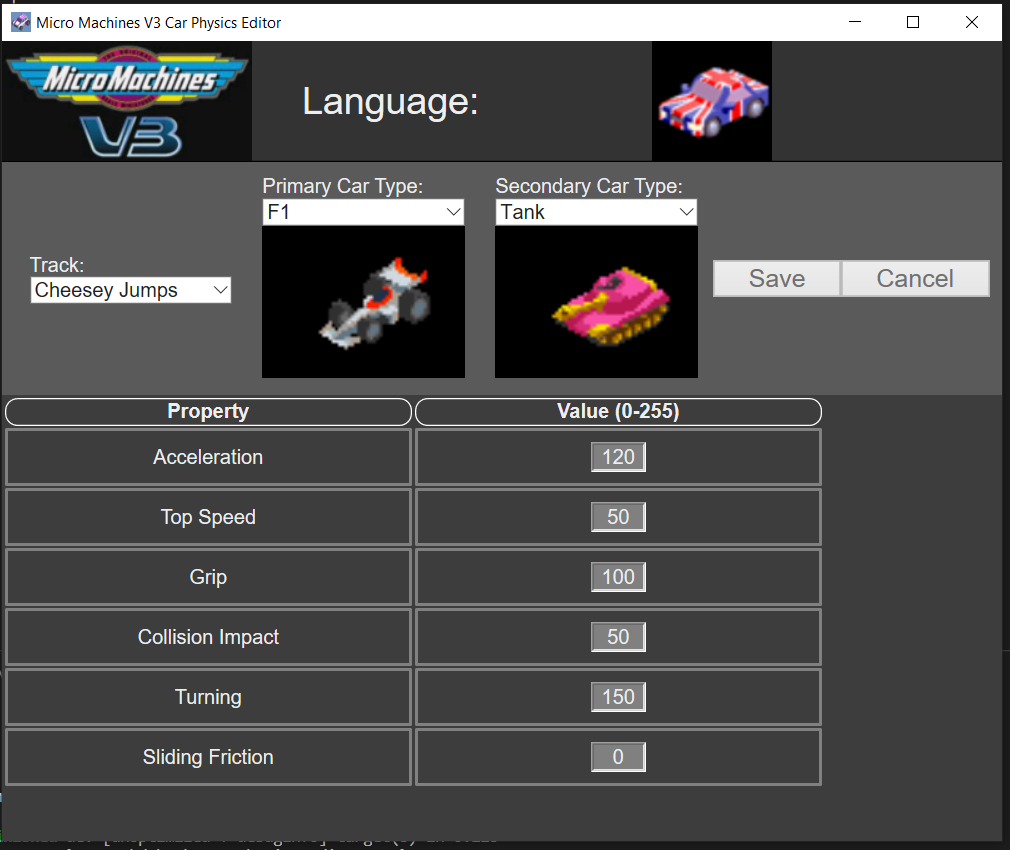
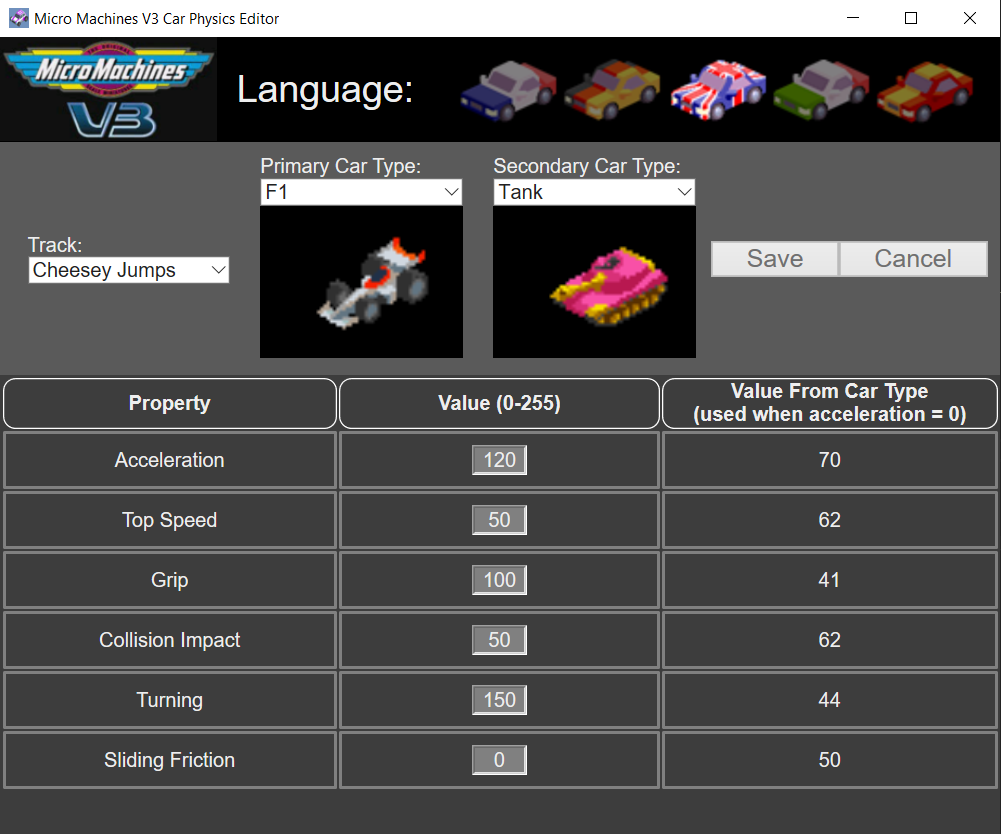
Add other languages

diff --git a/src/ui/index.html b/src/ui/index.html
@@ -11,11 +11,11 @@
         <div id="language-text">
           <span id="language-text-content">Language:</span>
         </div>
-        <img id="french" class="language-image-inactive" src="{french}"/>
-        <img id="german" class="language-image-inactive" src="{german}"/>
-        <img id="english" class="language-image-active" src="{english}"/>
-        <img id="italian" class="language-image-inactive" src="{italian}"/>
-        <img id="spanish" class="language-image-inactive" src="{spanish}"/>
+        <img id="french" class="language-image-inactive language-button" onclick="Action.set_language('French')" src="{french}"/>
+        <img id="german" class="language-image-inactive language-button" onclick="Action.set_language('German')" src="{german}"/>
+        <img id="english" class="language-image-active language-button" onclick="Action.set_language('English')" src="{english}"/>
+        <img id="italian" class="language-image-inactive language-button" onclick="Action.set_language('Italian')" src="{italian}"/>
+        <img id="spanish" class="language-image-inactive language-button" onclick="Action.set_language('Spanish')" src="{spanish}"/>
       </div>
     </header>
     <form id="main-form" onsubmit="return Action.set_car_data_for_selected_track();">

diff --git a/src/ui/app.js b/src/ui/app.js
@@ -13,6 +13,9 @@ var Action = (function() {
 	"use strict";
 
 	return {
+		set_language: function(language) {
+			external.invoke(JSON.stringify({ type: 'SetLanguage', language }));
+		},
 		load_track_list: function() {
 			external.invoke(JSON.stringify({ type: 'LoadTrackList' }));
 		},
@@ -77,6 +80,10 @@ var Response = (function() {
 					break;
 				case "WrittenCarDataForTrack":
 					Gui.disable_car_data_actions();
+					break;
+				case "LanguageSet":
+					Gui.set_active_language(msg.language);
+					Action.load_car_data_for_selected_track();
 					break;
 			}
 		}
@@ -159,6 +166,15 @@ var Gui = (function() {
 			$('#track-save-button').prop('disabled', true);
 			$('#track-cancel-button').prop('disabled', true);
 		},
+		set_active_language: function(language) {
+			$(".language-button").addClass("language-image-inactive");
+			$(".language-button").removeClass("language-image-active");
+
+			let languageIdString = "#" + language.toLowerCase();
+
+			$(languageIdString).addClass("language-image-active");
+			$(languageIdString).removeClass("language-image-inactive");
+		}
 	};
 })();
 

diff --git a/src/gui.rs b/src/gui.rs
@@ -1,4 +1,4 @@
-use crate::car_physics::CarPhysicsByCarType;
+use crate::language::Language;
 use crate::car_physics::CarPhysicsByTrack;
 use crate::car_type::CarType;
 use crate::data_service::DataService;
@@ -24,6 +24,9 @@ const MMV3_BIN_SIZE: u64 = 674461872;
 #[derive(Deserialize, Debug, Clone)]
 #[serde(tag = "type")]
 pub enum GuiRequest {
+    SetLanguage {
+        language: Language,
+    },
     LoadTrackList,
     LoadCarTypeList,
     LoadCarDataForTrack {
@@ -59,6 +62,9 @@ pub enum GuiResponse {
         physics: CarPhysicsByTrack
     },
     WrittenCarDataForTrack,
+    LanguageSet {
+        language: Language
+    },
 }
 
 #[derive(Serialize)]
@@ -77,6 +83,7 @@ pub struct CarTypeResponseData {
 #[derive(Default, Debug, Serialize, Deserialize)]
 pub struct PersistentData {
     pub file_path: PathBuf,
+    pub language: Language
 }
 
 pub fn spawn_gui() {
@@ -95,6 +102,20 @@ pub fn spawn_gui() {
         .user_data(PersistentData::default())
         .invoke_handler(move |mut webview, arg| {
             match serde_json::from_str::<GuiRequest>(arg) {
+                Ok(GuiRequest::SetLanguage {
+                    language
+                }) => {
+                    let mut user_data = webview.user_data_mut();
+
+                    user_data.language = language;
+
+                    message_dispatch(
+                        &mut webview,
+                        &GuiResponse::LanguageSet {
+                            language
+                        }
+                    )
+                },
                 Ok(GuiRequest::LoadTrackList) => {
                     let path: PathBuf;
 
@@ -151,7 +172,10 @@ pub fn spawn_gui() {
                 Ok(GuiRequest::LoadCarDataForTrack {
                     track
                 }) => {
-                    let data_service = DataService::new(&webview.user_data().file_path);
+                    let data_service = DataService::new(
+                        &webview.user_data().file_path,
+                        webview.user_data().language
+                    );
 
                     let primary = data_service
                         .read_car_type(track, TeamPlayer::First)
@@ -175,7 +199,10 @@ pub fn spawn_gui() {
                 Ok(GuiRequest::LoadCarPhysicsForCarType {
                     car_type
                 }) => {
-                    let data_service = DataService::new(&webview.user_data().file_path);
+                    let data_service = DataService::new(
+                        &webview.user_data().file_path,
+                        webview.user_data().language
+                    );
 
                     let physics: CarPhysicsByTrack = data_service
                         .read_car_physics_by_car_type(car_type)
@@ -195,7 +222,10 @@ pub fn spawn_gui() {
                     secondary,
                     physics
                 }) => {
-                    let data_service = DataService::new(&webview.user_data().file_path);
+                    let data_service = DataService::new(
+                        &webview.user_data().file_path,
+                        webview.user_data().language
+                    );
 
                     data_service
                         .write_car_type(track, TeamPlayer::First, primary)

diff --git a/src/data_service.rs b/src/data_service.rs
@@ -20,9 +20,9 @@ pub struct DataService<'a> {
 }
 
 impl<'a> DataService<'a> {
-    pub fn new(file_path: &'a PathBuf) -> Self {
+    pub fn new(file_path: &'a PathBuf, language: Language) -> Self {
         Self {
-            language: Language::English,
+            language,
             file_path
         }
     }
@@ -114,8 +114,6 @@ impl<'a> DataService<'a> {
             _unknown_2: rdr.read_u16::<LittleEndian>()?,
         };
 
-        println!("{:?}", physics);
-
         Ok(physics)
     }
 
@@ -180,9 +178,7 @@ mod tests {
     #[test]
     fn can_read_car_type() {
         let file_path = PathBuf::from(TEST_FILE_PATH);
-        let mut data_service = DataService::new(&file_path);
-
-        data_service.set_language(Language::TestLanguage);
+        let mut data_service = DataService::new(&file_path, Language::TestLanguage);
 
         let car_type = data_service.read_car_type(Track::Wipeup, TeamPlayer::First);
 
@@ -193,9 +189,7 @@ mod tests {
     #[test]
     fn can_read_physics_by_track() {
         let file_path = PathBuf::from(TEST_FILE_PATH);
-        let mut data_service = DataService::new(&file_path);
-
-        data_service.set_language(Language::TestLanguage);
+        let mut data_service = DataService::new(&file_path, Language::TestLanguage);
 
         let physics = data_service.read_car_physics_by_track(Track::Wipeup);
 
@@ -216,9 +210,7 @@ mod tests {
     #[test]
     fn can_read_physics_by_car_type() {
         let file_path = PathBuf::from(TEST_FILE_PATH);
-        let mut data_service = DataService::new(&file_path);
-
-        data_service.set_language(Language::TestLanguage);
+        let mut data_service = DataService::new(&file_path, Language::TestLanguage);
 
         let physics = data_service.read_car_physics_by_car_type(CarType::F1Sixties);
 
@@ -243,9 +235,7 @@ mod tests {
     #[test]
     fn can_read_physics_by_car_type_accross_partition() {
         let file_path = PathBuf::from(TEST_FILE_PATH);
-        let mut data_service = DataService::new(&file_path);
-
-        data_service.set_language(Language::TestLanguage);
+        let mut data_service = DataService::new(&file_path, Language::TestLanguage);
 
         let physics = data_service.read_car_physics_by_car_type(CarType::Hovercraft);
 
@@ -270,9 +260,7 @@ mod tests {
     #[test]
     fn can_read_physics_by_car_type_after_partition() {
         let file_path = PathBuf::from(TEST_FILE_PATH);
-        let mut data_service = DataService::new(&file_path);
-
-        data_service.set_language(Language::TestLanguage);
+        let mut data_service = DataService::new(&file_path, Language::TestLanguage);
 
         let physics = data_service.read_car_physics_by_car_type(CarType::Speedboat);
 

diff --git a/src/language.rs b/src/language.rs
@@ -1,4 +1,5 @@
 use strum::*;
+use serde_derive::{Deserialize, Serialize};
 
 const ENGLISH_LOGO: &'static [u8] = include_bytes!("../assets/English.png");
 const FRENCH_LOGO: &'static [u8] = include_bytes!("../assets/French.png");
@@ -6,7 +7,7 @@ const GERMAN_LOGO: &'static [u8] = include_bytes!("../assets/German.png");
 const ITALIAN_LOGO: &'static [u8] = include_bytes!("../assets/Italian.png");
 const SPANISH_LOGO: &'static [u8] = include_bytes!("../assets/Spanish.png");
 
-#[derive(Copy, Clone, Debug, Eq, PartialEq, Hash, EnumIter, EnumMessage, EnumProperty)]
+#[derive(Copy, Clone, Debug, Eq, PartialEq, Hash, EnumIter, EnumMessage, EnumProperty, Serialize, Deserialize)]
 pub enum Language {
     #[strum(props(CarTypeOffset="0xAEBCD6C", CarPhysicsByCarTypeOffset="0xAEBB78C", CarPhysicsByCarTypePartition="0xAEBB928", CarPhysicsByTrackOffset="0xAEBBC1C"))]
     English,
@@ -14,12 +15,18 @@ pub enum Language {
     French,
     #[strum(props(CarTypeOffset="0xB2AE568", CarPhysicsByCarTypeOffset="0xB2ACF88", CarPhysicsByCarTypePartition="0xB2AD0C8", CarPhysicsByTrackOffset="0xB2AD418"))]
     German,
-    #[strum(props(CarTypeOffset="0xB4A732C", CarPhysicsByCarTypeOffset="0xB4A5E7C", CarPhysicsByTrackOffset="0xB4A61DC"))]
-    Italian,
     #[strum(props(CarTypeOffset="0xB69FFEC", CarPhysicsByCarTypeOffset="0xB69EB3C", CarPhysicsByTrackOffset="0xB69EE9C"))]
+    Italian,
+    #[strum(props(CarTypeOffset="0xB4A732C", CarPhysicsByCarTypeOffset="0xB4A5E7C", CarPhysicsByTrackOffset="0xB4A61DC"))]
     Spanish,
     #[strum(props(CarTypeOffset="0xA", CarPhysicsByCarTypeOffset="0xBB", CarPhysicsByCarTypePartition="123", CarPhysicsByTrackOffset="0xCCC"))]
     TestLanguage
+}
+
+impl Default for Language {
+    fn default() -> Self {
+        Self::English
+    }
 }
 
 impl Language {
